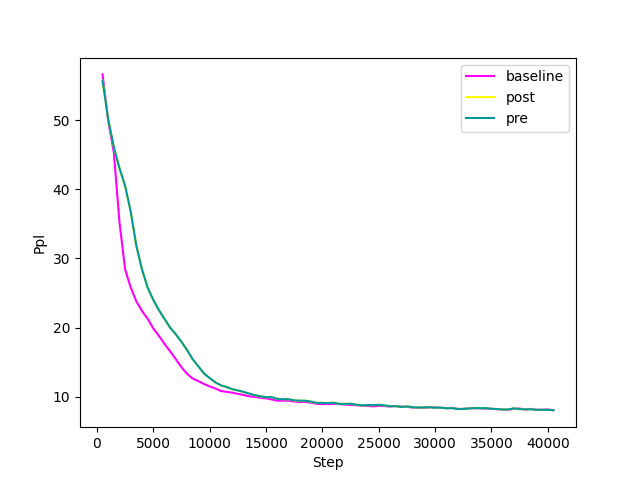
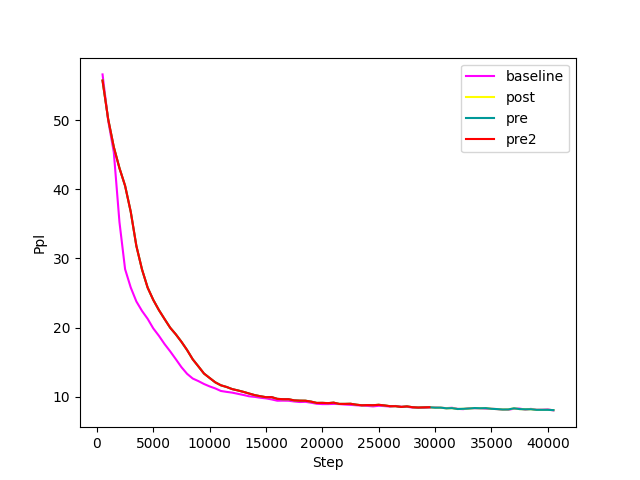
add new ppl files

diff --git a/perplexities/create_table.py b/perplexities/create_table.py
@@ -41,10 +41,11 @@ df.insert(0, "Step", steps)
 
 df.to_csv('perplexity_results.csv', index=False)
 
-# create a line chart based on the df
+# create a line chart based on the df (for all 4 models)
 plt.plot(df['Step'], df['baseline.log'], label='baseline', color='#FF00FF') 
 plt.plot(df['Step'], df['post.log'], label='post', color = "#FFFF00")
 plt.plot(df['Step'], df['pre.log'], label='pre', color = "#009999")
+plt.plot(df['Step'], df['pre2.log'], label='pre2', color = "#FF0000")
 plt.xlabel('Step')
 plt.ylabel('Ppl')
 plt.legend()
@@ -52,4 +53,19 @@ plt.savefig('perplexity_results.png')
 plt.show()
 
 
+plt.plot(df['Step'], df['baseline.log'], label='baseline', color='#FF00FF') 
+plt.plot(df['Step'], df['post.log'], label='post', color = "#FFFF00")
+plt.xlabel('Step')
+plt.ylabel('Ppl')
+plt.legend()
+plt.savefig('perplexity_results_post.png')
+plt.show()
 
+
+plt.plot(df['Step'], df['baseline.log'], label='baseline', color='#FF00FF') 
+plt.plot(df['Step'], df['pre.log'], label='pre', color = "#009999")
+plt.xlabel('Step')
+plt.ylabel('Ppl')
+plt.legend()
+plt.savefig('perplexity_results_pre.png')
+plt.show()
